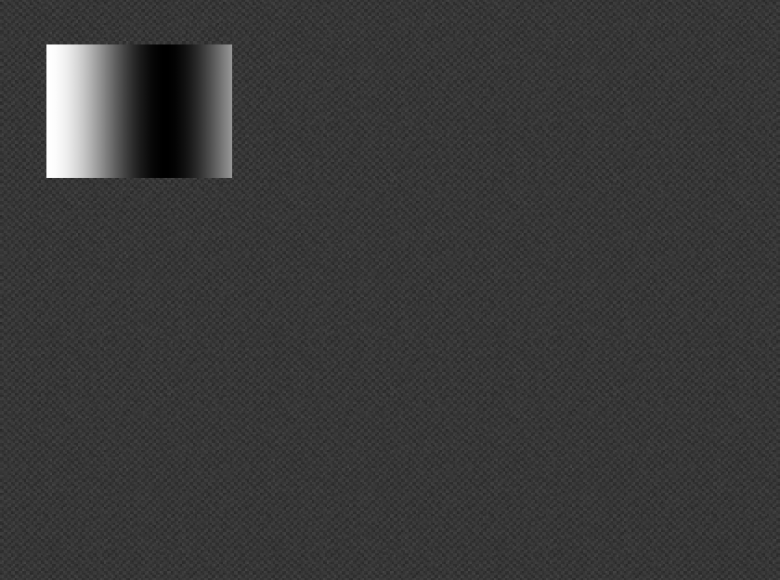
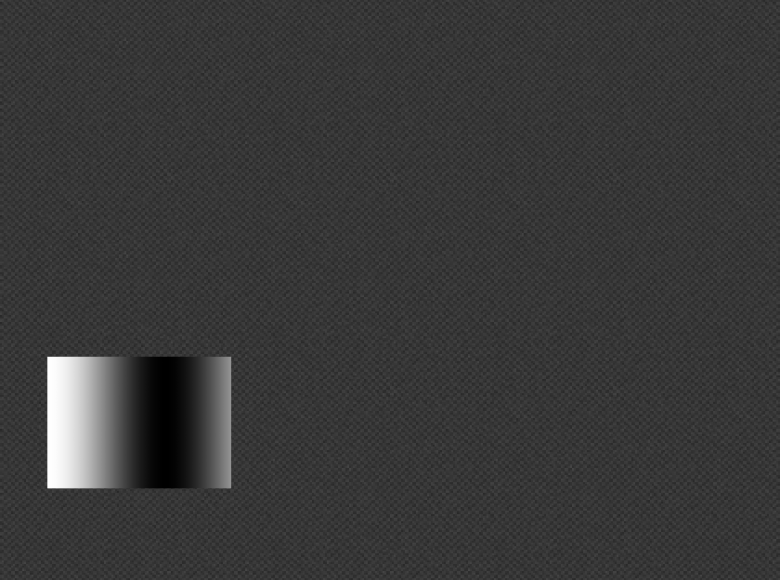
Added more detailed README

Changed region(s): [[0.0615, 0.5897, 0.3077, 0.869], [0.0615, 0.0621, 0.3077, 0.3103]]

diff --git a/TheoUnwraping/warpWithDisplacement.py b/TheoUnwraping/warpWithDisplacement.py
@@ -24,10 +24,11 @@ distCoeff[6,0] = k5;
 distCoeff[7,0] = k6;
 
 #-Offset
-
 x_off = 50
-y_off = x_off
-x_in = 50
+y_off = 400
+
+#-Inset
+x_in = 1 # ALWAYS >=1
 y_in = x_in
 
 
@@ -53,7 +54,7 @@ for i in range(24):
     dst = cv2.resize(dst,(200,150))
 
     grey = imread("refImages/grey.png")
-    grey[y_off:y_off+dst.shape[0], x_off:x_off+dst.shape[1]] = dst
+    grey[y_off+y_in:y_off+dst.shape[0]-y_in, x_off+x_in:x_off+dst.shape[1]-x_in] = dst[y_in:-y_in, x_in:-x_in]
 
     grey = cv2.resize(grey, (780,580))
     

diff --git a/TheoUnwraping/warpNoDisplacement.py b/TheoUnwraping/warpNoDisplacement.py
@@ -7,7 +7,7 @@ distCoeff = np.zeros((8,1),np.float64)
 # TODO: add your coefficients here!
 k1 = 0.0;
 k2 = 0.0;
-p1 = 0.0;
+p1 = 1e-4;
 p2 = 0.0;
 k3 = 0.0;
 k4 = 0.0;
